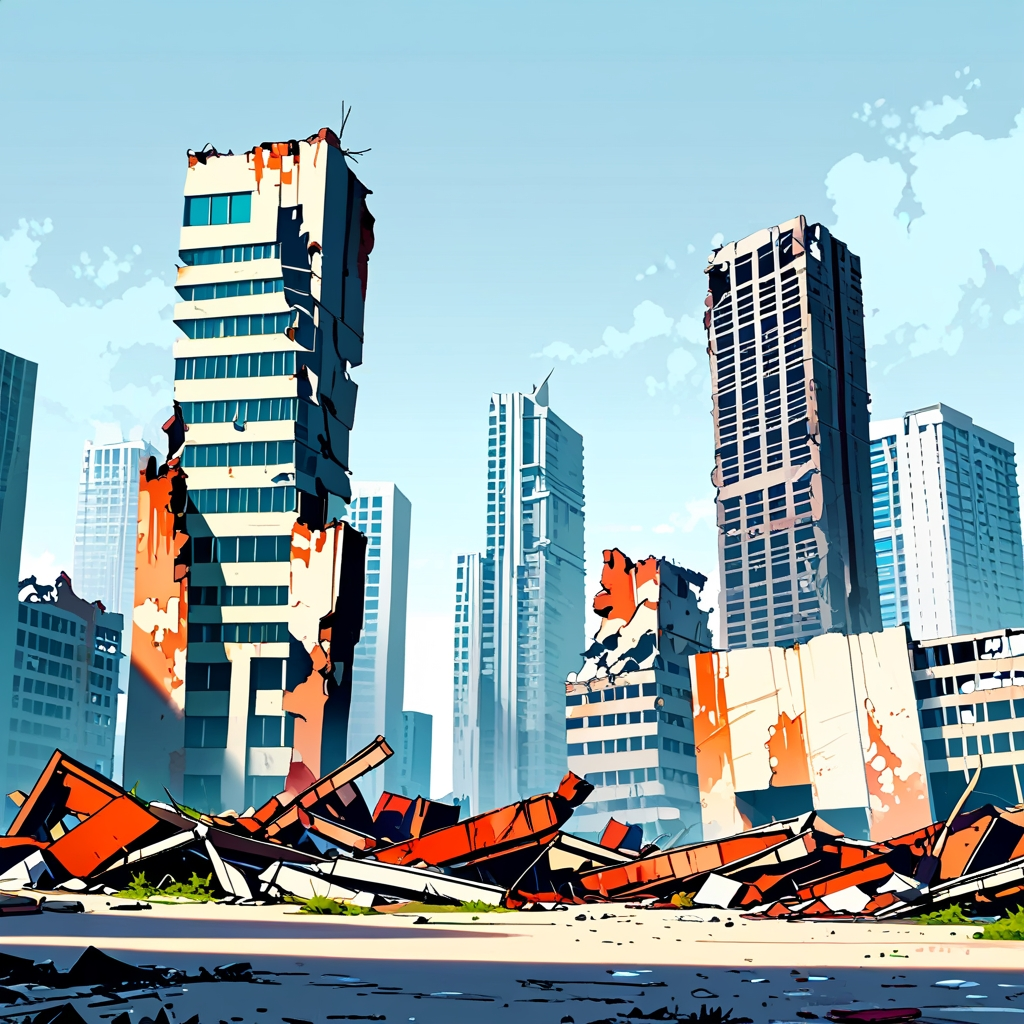
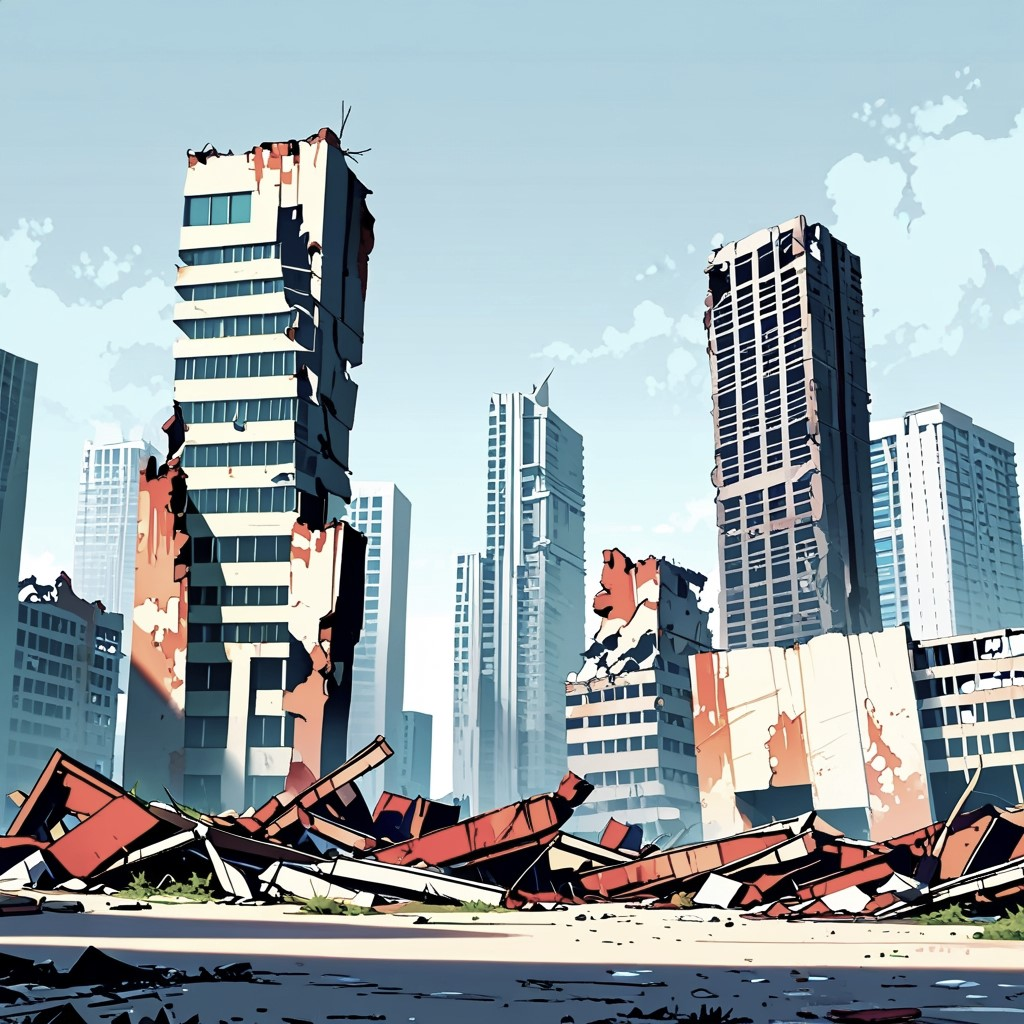
Fixed a small design bug; The structure of the slice of modal windows has been changed; Added modal settings window; Added the ability to toggle the display of enemy HP in numbers.

diff --git a/src/components/SettingsModal/index.tsx b/src/components/SettingsModal/index.tsx
@@ -1,0 +1,56 @@
+import { AnimatePresence, motion } from "framer-motion"
+import { useActions } from "../../hooks/useActions"
+import { useAppSelector } from "../../redux/hooks"
+import styles from "./settings.module.scss"
+
+export default function Settings() {
+	const isShow = useAppSelector(state => state.modal.settings)
+
+	const settings = useAppSelector(state => state.settings)
+	const { toggleModal, toggleSetting } = useActions()
+
+	return (
+		<AnimatePresence>
+			{isShow && (
+				<motion.div
+					initial="hide"
+					animate="show"
+					exit="hide"
+					variants={{
+						hide: { opacity: 0 },
+						show: { opacity: 1 }
+					}}
+					transition={{ duration: 0.25 }}
+					onClick={() => {
+						toggleModal("settings")
+					}}
+					className={styles.overlay}
+				>
+					<motion.section
+						variants={{
+							hide: { scale: 0.35 },
+							show: { scale: 1 }
+						}}
+						transition={{ duration: 0.25 }}
+						onClick={e => e.stopPropagation()}
+						className={styles.settings}
+					>
+						<h2 className={styles.heading}>Settings</h2>
+						<ul className={styles.list}>
+							<li>
+								<input
+									type="checkbox"
+									id="settings-box"
+									className={styles.checkbox}
+									checked={settings.hpInNumbers}
+									onChange={() => toggleSetting("hpInNumbers")}
+								/>
+								<label htmlFor="settings-box">Show enemy HP in numbers</label>
+							</li>
+						</ul>
+					</motion.section>
+				</motion.div>
+			)}
+		</AnimatePresence>
+	)
+}

diff --git a/src/components/SettingsModal/settings.module.scss b/src/components/SettingsModal/settings.module.scss
@@ -1,0 +1,80 @@
+.overlay {
+	position: fixed;
+	top: 0;
+	left: 0;
+	z-index: 3;
+
+	width: 100%;
+	height: 100%;
+	background-color: rgba($color: #000, $alpha: 0.6);
+
+	display: flex;
+	justify-content: center;
+	align-items: center;
+}
+
+.settings {
+	width: 75%;
+	height: 60%;
+	padding: 25px;
+
+	background-color: var(--main);
+	border: 3px solid var(--accent);
+	border-radius: 20px;
+	box-shadow: 0 0 15px 2px var(--accent);
+
+	display: flex;
+	flex-direction: column;
+	align-items: center;
+}
+
+.heading {
+	font-family: var(--csn-font);
+	font-size: 1.25rem;
+	font-weight: bold;
+	margin-bottom: 20px;
+}
+
+.list {
+	display: flex;
+	flex-direction: column;
+	align-items: center;
+	row-gap: 15px;
+
+	li {
+		width: 100%;
+		position: relative;
+	}
+}
+
+.checkbox {
+	opacity: 0;
+	position: absolute;
+	z-index: -1;
+
+	& + label {
+		width: 100%;
+		display: inline-flex;
+		flex-direction: row-reverse;
+		align-items: center;
+		margin-right: 10px;
+		line-height: 0.95;
+		user-select: none;
+
+		&::before {
+			content: "";
+			display: inline-block;
+			width: 1rem;
+			height: 1rem;
+			border: 1px solid var(--accent);
+			border-radius: 0.2rem;
+			flex-shrink: 0;
+			transition: all 0.2s;
+		}
+	}
+
+	&:checked + label::before {
+		background-color: var(--accent);
+		filter: drop-shadow(0 0 5px var(--accent));
+	}
+}

diff --git a/src/components/UpgradesModal/index.tsx b/src/components/UpgradesModal/index.tsx
@@ -6,7 +6,7 @@ import Card from "../UpgradeCard"
 import styles from "./modal.module.scss"
 
 export default function UpgradesModal() {
-	const isShow = useAppSelector(state => state.modal.isShow)
+	const isShow = useAppSelector(state => state.modal.upgrades)
 	const { toggleModal } = useActions()
 
 	return (
@@ -22,7 +22,7 @@ export default function UpgradesModal() {
 					initial="hide"
 					animate="show"
 					exit="hide"
-					onClick={() => toggleModal()}
+					onClick={() => toggleModal("upgrades")}
 				>
 					<motion.section
 						className={styles.modal}
@@ -36,7 +36,7 @@ export default function UpgradesModal() {
 						<h2 className={styles.heading}>Upgrades</h2>
 
 						<button
-							onClick={() => toggleModal()}
+							onClick={() => toggleModal("upgrades")}
 							className={styles["close-btn"]}
 						>
 							×

diff --git a/src/components/AppHeader/index.tsx b/src/components/AppHeader/index.tsx
@@ -1,8 +1,10 @@
+import { useActions } from "../../hooks/useActions"
 import { useAppSelector } from "../../redux/hooks"
 import styles from "./header.module.scss"
 
 export default function Header() {
 	const data = useAppSelector(state => state.user)
+	const { toggleModal } = useActions()
 
 	return (
 		<header className={styles.header}>
@@ -12,7 +14,10 @@ export default function Header() {
 				<h1 className={styles.username}>{data.name}</h1>
 			</section>
 
-			<button className={styles["settings-btn"]}>
+			<button
+				onClick={() => toggleModal("settings")}
+				className={styles["settings-btn"]}
+			>
 				<svg>
 					<use xlinkHref="#settingsIcon"></use>
 				</svg>

diff --git a/src/redux/modal/modalSlice.ts b/src/redux/modal/modalSlice.ts
@@ -1,19 +1,25 @@
-import { createSlice } from "@reduxjs/toolkit"
+import { PayloadAction, createSlice } from "@reduxjs/toolkit"
 
 export interface IModalState {
-	isShow: boolean
+	upgrades: boolean
+	settings: boolean
 }
 
 const initialState: IModalState = {
-	isShow: false
+	settings: false,
+	upgrades: false
 }
 
 const modalSlice = createSlice({
 	name: "modal",
 	initialState,
 	reducers: {
-		toggleModal: state => {
-			state.isShow = !state.isShow
+		toggleModal: (state, actions: PayloadAction<keyof IModalState>) => {
+			if (actions.payload === "upgrades") {
+				state.upgrades = !state.upgrades
+			} else {
+				state.settings = !state.settings
+			}
 		}
 	}
 })

diff --git a/src/components/Clicker/index.tsx b/src/components/Clicker/index.tsx
@@ -16,6 +16,8 @@ export default function Clicker({
 	image,
 	enemyKilled
 }: IProps) {
+	const isHPShow = useAppSelector(state => state.settings.hpInNumbers)
+
 	const user = useAppSelector(state => state.user)
 
 	const [realHP, setRealHP] = useState<number>(health)
@@ -67,7 +69,8 @@ export default function Clicker({
 
 			<div className={styles.health}>
 				<h2 className={styles.label}>
-					Target <span>Health</span>: {realHP <= 0 ? <i>0</i> : realHP}
+					Target <span>Health</span>:{" "}
+					{isHPShow && (realHP <= 0 ? <i>0</i> : realHP)}
 				</h2>
 
 				<div className={styles["health-bar"]}>

diff --git a/src/redux/settings/settingsSlice.ts b/src/redux/settings/settingsSlice.ts
@@ -1,0 +1,23 @@
+import { PayloadAction, createSlice } from "@reduxjs/toolkit"
+
+export interface ISettings {
+	hpInNumbers: boolean
+	lightTheme: boolean
+}
+
+const initialState: ISettings = {
+	hpInNumbers: false,
+	lightTheme: false
+}
+
+const settingsSlice = createSlice({
+	name: "settings",
+	initialState,
+	reducers: {
+		toggleSetting: (state, actions: PayloadAction<keyof ISettings>) => {
+			state[actions.payload] = !state[actions.payload]
+		}
+	}
+})
+
+export const { actions, reducer } = settingsSlice

diff --git a/src/hooks/useActions.ts b/src/hooks/useActions.ts
@@ -3,11 +3,13 @@ import { useMemo } from "react"
 import { useAppDispatch } from "../redux/hooks"
 
 import { actions as modalActions } from "../redux/modal/modalSlice"
+import { actions as settingsActions } from "../redux/settings/settingsSlice"
 import { actions as userActions } from "../redux/user/userSlice"
 
 const combineActions = {
 	...userActions,
-	...modalActions
+	...modalActions,
+	...settingsActions
 }
 
 export const useActions = () => {

diff --git a/src/redux/store.ts b/src/redux/store.ts
@@ -1,11 +1,13 @@
 import { combineReducers, configureStore } from "@reduxjs/toolkit"
 
 import { reducer as modalSlice } from "./modal/modalSlice"
+import { reducer as settingsReducer } from "./settings/settingsSlice"
 import { reducer as userReducer } from "./user/userSlice"
 
 const reducers = combineReducers({
 	user: userReducer,
-	modal: modalSlice
+	modal: modalSlice,
+	settings: settingsReducer
 })
 
 export const store = configureStore({

diff --git a/src/App.tsx b/src/App.tsx
@@ -7,6 +7,7 @@ import Upgrades from "./components/Upgrades"
 import UpgradesModal from "./components/UpgradesModal"
 
 import { useEffect, useState } from "react"
+import Settings from "./components/SettingsModal"
 import { enemies, type IEnemies } from "./data"
 
 function App() {
@@ -43,6 +44,8 @@ function App() {
 
 				<Upgrades />
 			</main>
+
+			<Settings />
 
 			<UpgradesModal />
 

diff --git a/src/components/Clicker/clicker.module.scss b/src/components/Clicker/clicker.module.scss
@@ -34,7 +34,6 @@
 	background-image: url("./City.jpg");
 	background-size: cover;
 	background-position: center center;
-	filter: grayscale(65%);
 
 	display: flex;
 	justify-content: center;
@@ -44,7 +43,6 @@
 		width: 80%;
 		height: 80%;
 		padding-bottom: 4px;
-		filter: grayscale(-65%);
 	}
 }
 

diff --git a/src/components/Upgrades/index.tsx b/src/components/Upgrades/index.tsx
@@ -6,7 +6,7 @@ export default function Upgrades() {
 
 	return (
 		<section className={styles.upgrades}>
-			<button onClick={() => toggleModal()} className={styles.button}>
+			<button onClick={() => toggleModal("upgrades")} className={styles.button}>
 				Upgrades
 			</button>
 		</section>
